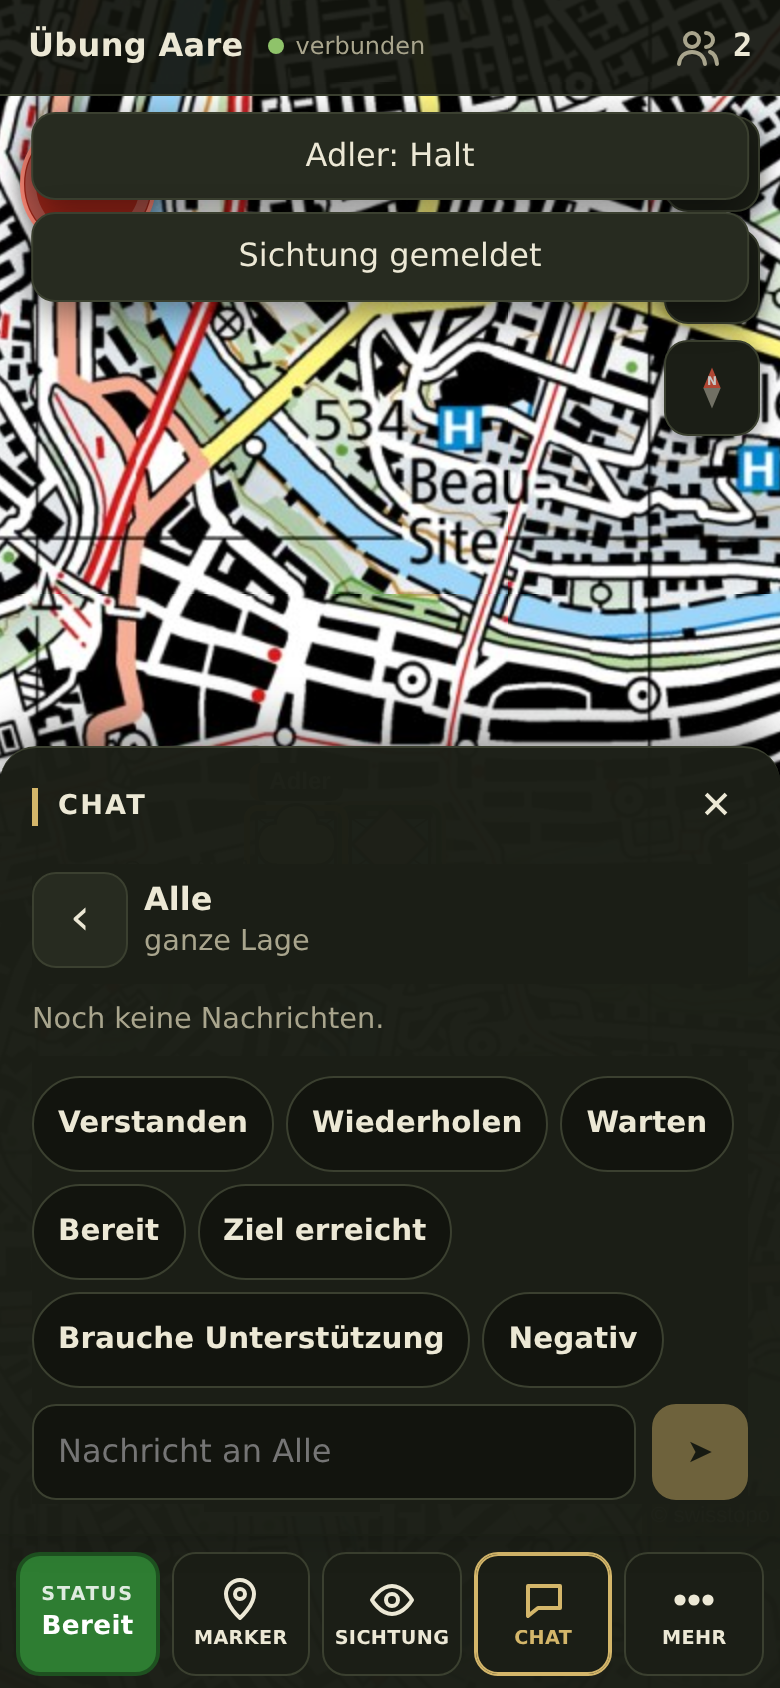
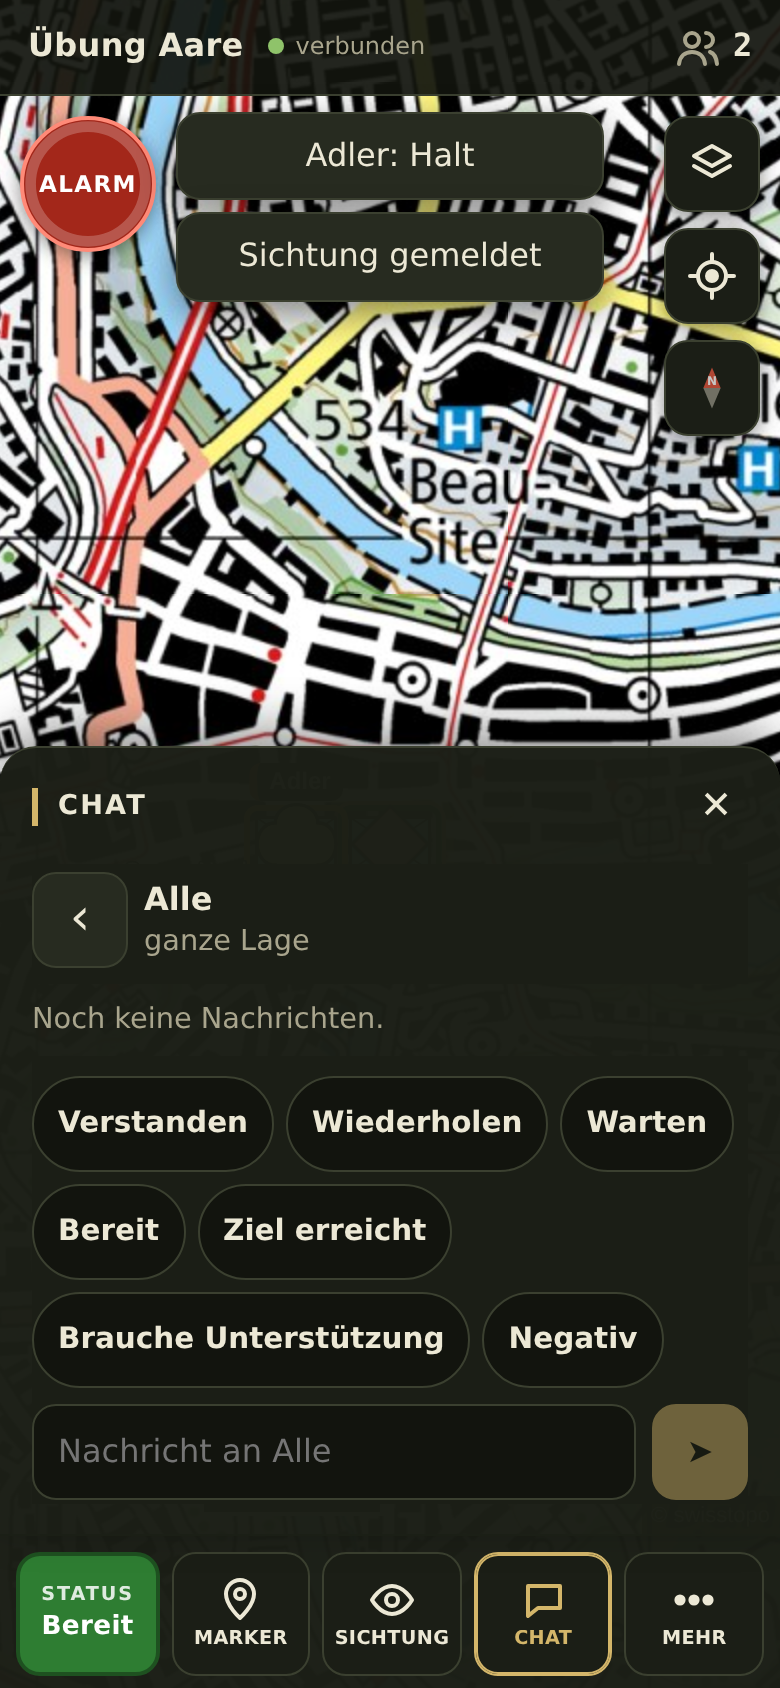
fix: Toasts im Hochformat zwischen Alarm und Kartenknöpfen
Claude-Session: https://claude.ai/code/session_01WWDBQoufWiVT9Ny962yQEH

Changed region(s): [[0.0308, 0.0616, 0.2462, 0.2156], [0.7385, 0.0616, 0.9538, 0.2156]]

diff --git a/client/src/app.css b/client/src/app.css
@@ -93,7 +93,11 @@
 }
 /* Nordung hat bei den Daumen-Rändern einen eigenen Knopf bei den Kartenknöpfen; hoch sitzt links unten der Alarm */
 :root:has(.daumen) .maplibregl-ctrl-top-right { display: none; }
-@media (orientation: portrait) { :root:has(.daumen) .maplibregl-ctrl-bottom-left { left: 90px; } }
+@media (orientation: portrait) {
+  :root:has(.daumen) .maplibregl-ctrl-bottom-left { left: 90px; }
+  /* Toasts zwischen Alarm (links, bei offenem Sheet oben) und Kartenknöpfen (rechts), sonst verdecken sie beide */
+  :root:has(.daumen) { --toast-rand: 80px; }
+}
 
 * { box-sizing: border-box; }
 html, body, #app { margin: 0; height: 100%; overflow: hidden; overscroll-behavior: none; }

diff --git a/client/src/App.svelte b/client/src/App.svelte
@@ -353,7 +353,7 @@
     z-index: 29; /* über Sheets/Fadenkreuz, unter dem Alarm-Banner (30) */
     display: grid;
     gap: 6px;
-    width: min(92vw, 420px, calc(100vw - var(--links, 0px) - var(--rechts, 0px) - 16px));
+    width: min(92vw, 420px, calc(100vw - var(--links, 0px) - var(--rechts, 0px) - 16px - 2 * var(--toast-rand, 0px)));
     pointer-events: none;
   }
   .einklappen {
